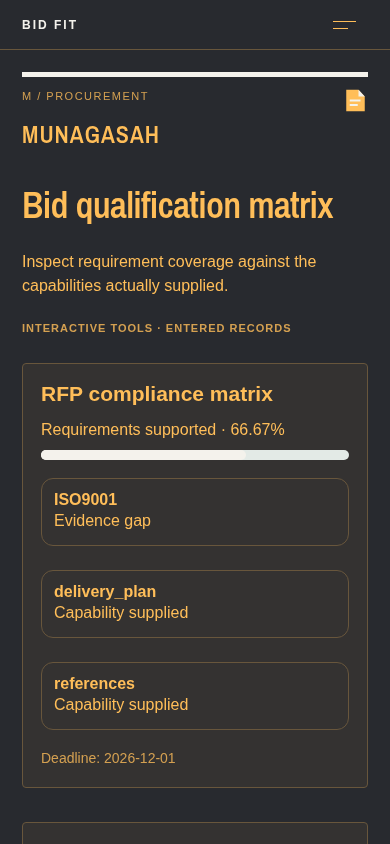
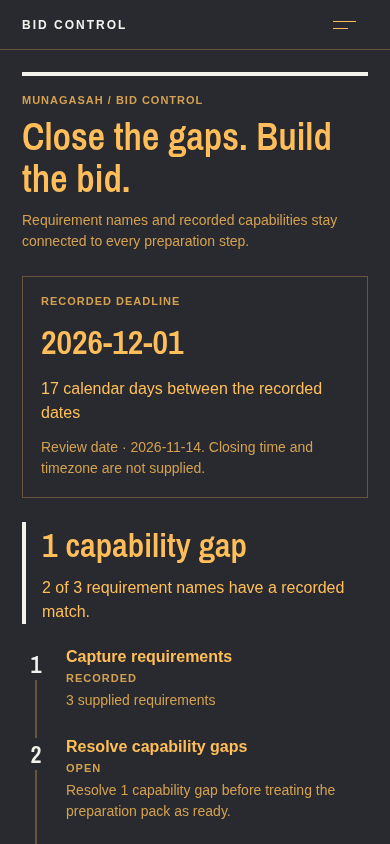
Refresh 25-app browser evidence after Munagasah first-screen refinement

diff --git a/project/native-design-execution/STATUS.md b/project/native-design-execution/STATUS.md
@@ -30,3 +30,5 @@ Replaced generic percentage/outline cards with a technical preparation desk. The
 90 mobile tests, typecheck, lint and 25 variant checks passed. The dedicated browser test covers actual record edits, gap filtering, downloaded JSON and motion preferences using explicitly controlled synthetic intake. Expo 58 file-system/sharing and React Native Animated documentation were consulted; no dependency was added. Native sharing and physical-device usability are still unverified. The previous Istithmar first-five export (44143462960) completed successfully before these changes.
 
 Visual inspection exposed duplicated workbench branding above the Munagasah task. Its populated preparation route now renders the bid desk directly, keeping the original input setup available when the case is incomplete. This removes the generic masthead, repeated title and technical “entered records” label from the actual workflow. The focused browser test passed again after that change.
+
+The final Munagasah route revision is `0173ee1d69b02a714c09f02d995229dd3bef51b5`. GitHub Code checks passed at https://github.com/remidioviana/25app/actions/runs/44146029360 . The 25-app browser audit and wall were refreshed at that revision. The first implementation revision also passed native first-five export (44145575875); the final route revision's native export is tracked separately at https://github.com/remidioviana/25app/actions/runs/44146062201 . These exports produce JavaScript/assets, not signed applications or device acceptance.
